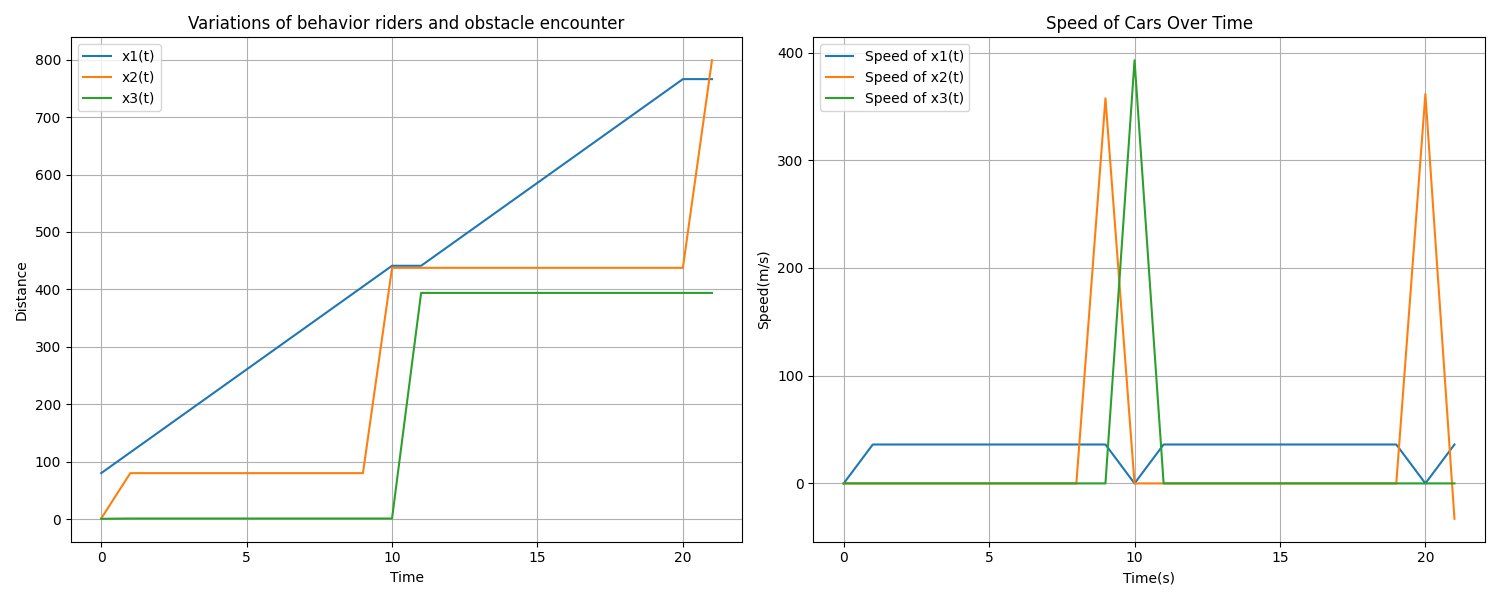
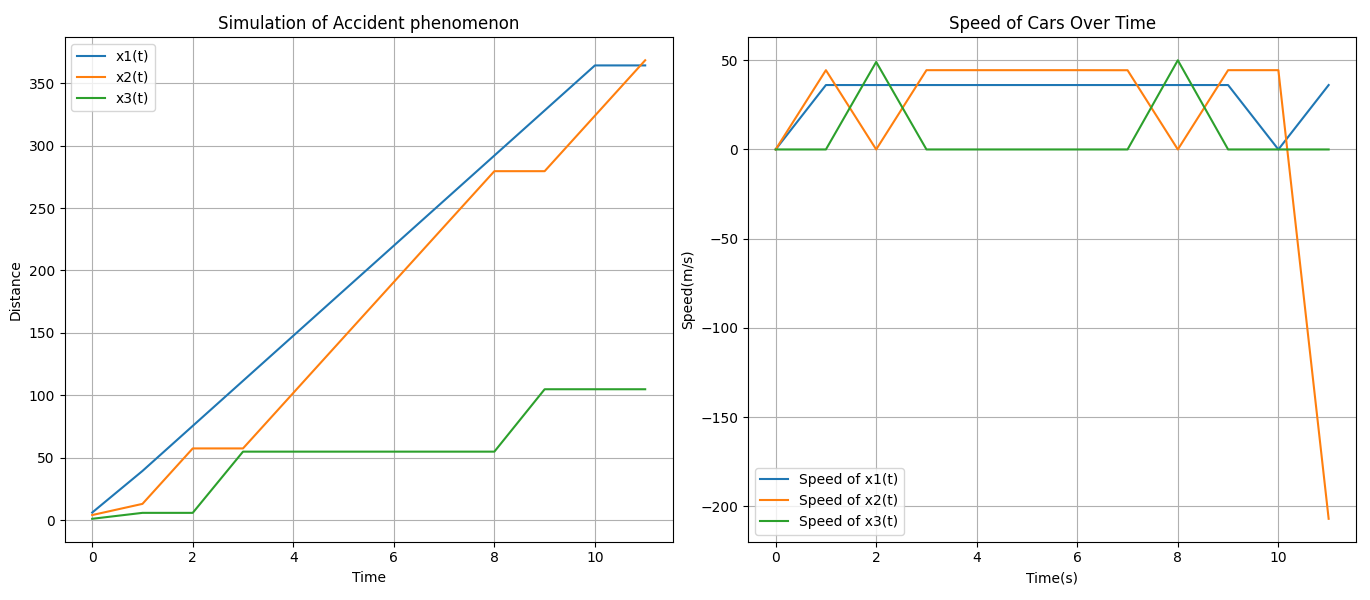
graph

diff --git a/SRTM/EDOMethod/ExpModel/CasTestToLaunch/PythonFile/Model1W3C_Aco_CA.py b/SRTM/EDOMethod/ExpModel/CasTestToLaunch/PythonFile/Model1W3C_Aco_CA.py
@@ -7,25 +7,26 @@ import matplotlib.pyplot as plt
 isDebug=False
 #______________________________________________________ Parameters ______________________________________________________
 #________________________________________________________________________________________________________________________
-
+print("ici")
 if len(sys.argv) != 7:
     print("Usage: python your_script_name.py a2 h a3")
     sys.exit(1)
 
 
 accident=False
-lambda_2 = float(sys.argv[1])
-lambda_3 = float(sys.argv[5])
+a2 = float(sys.argv[1])
+a3 = float(sys.argv[5])
 h = float(sys.argv[2])
 d2 = float(sys.argv[3])
 d3= float(sys.argv[6])
-x2_prime_max=160*(1000/3600) #maximum speed of the second car #maximum speed of the second car
-x3_prime_max=140*(1000/3600) #maximum speed of the third car #maximum speed of the second car
+V1max=120*(1000/3600) #maximum speed of the first car
+V2max=160*(1000/3600) #maximum speed of the second car #maximum speed of the second car
+V3max=180*(1000/3600) #maximum speed of the third car #maximum speed of the second car
 nameCaseToLaunch=sys.argv[4]
 
 
 
-T = 10.0  # Total simulation time
+T = 100.0  # Total simulation time
 n_steps = int(T / h)  # Number of time steps
 
 #_________________________________________________ Initialise arrays to storing data  ___________________________________________________
@@ -46,9 +47,9 @@ accident = False
 #______________________________________________________________________________________________________________________________
 
 time[0] = 0.0  # Initial time
-x1Pos[0] = 80.0  # Initial value for x1 as specified
-x2Pos[0] = 1.0  # Initial value for x2 as specified
-x3Pos[0] = 0.5  # Initial value for x2 as specified
+x1Pos[0] = 6.0  # Initial value for x1 as specified
+x2Pos[0] = 4.0  # Initial value for x2 as specified
+x3Pos[0] = 1.0  # Initial value for x2 as specified
 
 #_________________________________________________ Define the functions  ___________________________________________________
 #______________________________________________________________________________________________________________________________
@@ -59,19 +60,13 @@ x3Pos[0] = 0.5  # Initial value for x2 as specified
 def x1_prime():
     return V1max
 
-# x2_prime :
-#input : t : time
-# Return : This function returns the speed of x2 at time t
-
+# Definition of x2's speed function using a special exponential model
 def x2_prime(t):
-    return a2 * (x1Pos[t] - x2Pos[t])
+    return V2max*(1-np.exp((-a2/V2max)*(x1Pos[t]-x2Pos[t]-d2)))
 
-# x3_prime :
-#input : t : time
-# Return : This function returns the speed of x3 at time t
-
+# Definition of x3's speed function using a special exponential model
 def x3_prime(t):
-    return a3 * (x2Pos[t] - x3Pos[t])
+    return V3max*(1-np.exp((-a3/V3max)*(x2Pos[t]-x3Pos[t]-d3)))
 
 # isAccident :
 #input : t : time
@@ -92,19 +87,19 @@ def VariationsOfComportment(criticalDistance,boringDistance):
     a2=0
     a3=0
     if(x1Pos[t] - x2Pos[t] <= criticalDistance):
-        a2 = 1.0
+        a2 = 15.0
         if(isDebug):
             print("a2= ", a2)
     elif(x1Pos[t] - x2Pos[t] >= boringDistance):
-        a2 = 1.1
+        a2 = 16.0
         if(isDebug):
             print("a2= ", a2)
     elif(x2Pos[t] - x3Pos[t] <= criticalDistance):
-        a3 = 0.5
+        a3 = 3.5
         if(isDebug):
             print("a3= ",a3)
     elif(x2Pos[t] - x3Pos[t] >= boringDistance):
-        a3 = 0.9
+        a3 = 4.0
         if(isDebug):
             print("a3= ",a3)
     if(isDebug):
@@ -121,8 +116,8 @@ for t in range(1, n_steps):
     
     if(isDebug):
         print("a2= ", a2, "a3= ", a3)
-    a2,a3=VariationsOfComportment(1,300)
-    V1max=obstacle(t)
+    a2,a3=VariationsOfComportment(1,20)
+    #V1max=obstacle(t)
     
     v1[t] = x1_prime()
     v2[t] = x2_prime(t)

diff --git a/SRTM/EDOMethod/ExpModel/CasTestToLaunch/TestToLaunch/ThreeCarsTest/Model1W3C_Acc_CA_O/Accident.Md b/SRTM/EDOMethod/ExpModel/CasTestToLaunch/TestToLaunch/ThreeCarsTest/Model1W3C_Acc_CA_O/Accident.Md
@@ -1,12 +1,19 @@
-Simple model with 3 cars to simulate the accordeon aspect on the road:
+# Simple Model with 3 Cars to Simulate the Accordion Aspect on the Road
 
--the x2 car is little bit nervous, don't slow down if the car in front of freine and incressing speed if there is enought distance
--the x3 car is prudent, slow very fast if the car in front of slow down, and accelerate slwly
--the x1 car encounters an obstacle (linear modelisation) each 10 meters so it slow down
+In this simulation, we model the accordion aspect on the road involving three cars:
 
+- The `x2` car is a little bit nervous, not slowing down if the car in front brakes and increasing speed if there is enough distance.
+- The `x3` car is prudent, slowing down very fast if the car in front slows down and accelerating slowly.
+- The `x1` car encounters an obstacle (linear modelisation) every 10 meters, causing it to slow down.
 
-the parameters are : 
--h=1.0
--a2=1.0
--a3=1.0
+## Parameters:
 
+- `lambda2`: 10.0
+- `h`: 1.0
+- `d2`: 1.0
+- `nameCase`: "Simulation of Accident Phenomenon"
+- `lambda3`: 5.0
+- `d3`: 2.0
+- `V1max`: 120 * (1000 / 3600) # Maximum speed of the first car
+- `V2max`: 160 * (1000 / 3600) # Maximum speed of the second car
+- `V3max`: 180 * (1000 / 3600)
